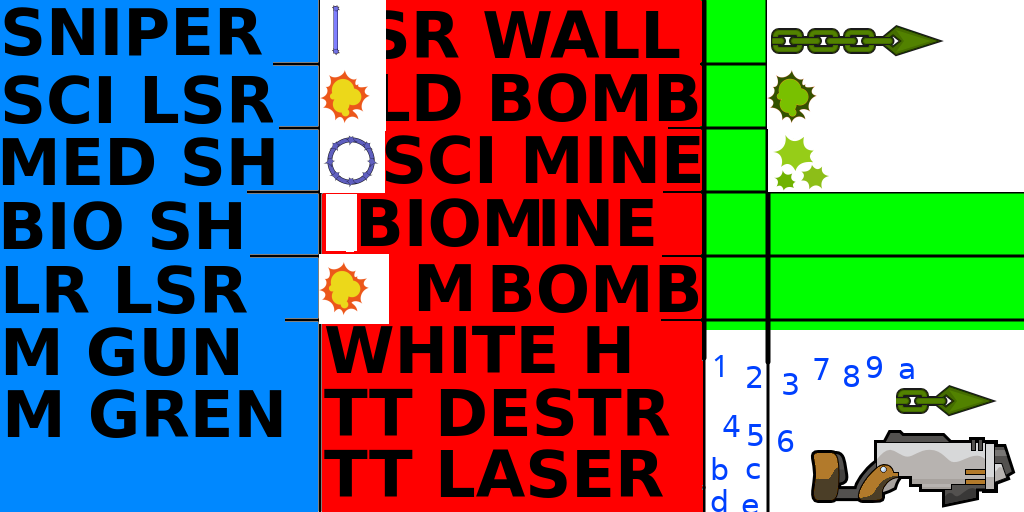
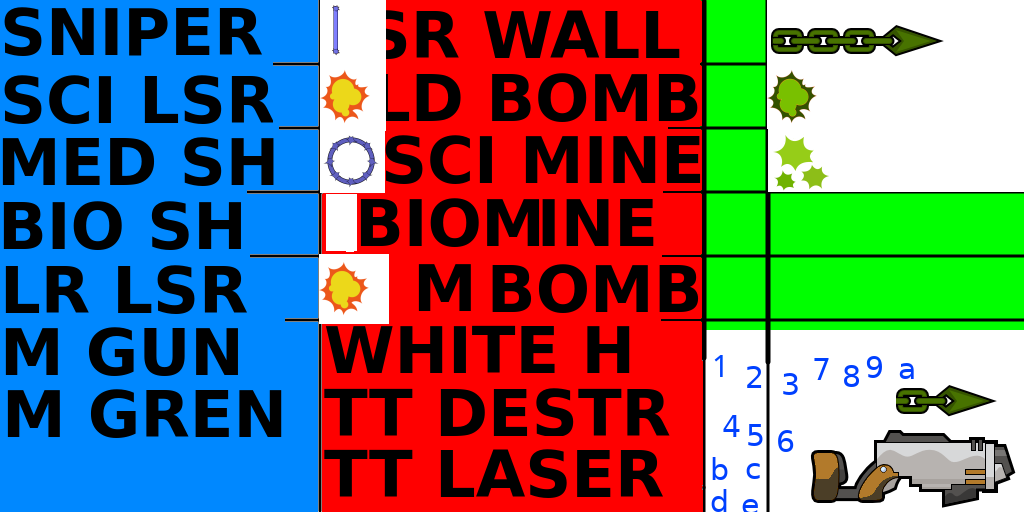
Show infected hook for infected classes

Changed region(s): [[0.75, 0.0312, 0.9375, 0.125], [0.875, 0.75, 0.9688, 0.8125]]

diff --git a/src/game/client/components/players.cpp b/src/game/client/components/players.cpp
@@ -127,7 +127,15 @@ void CPlayers::RenderHook(
 		float d = distance(Pos, HookPos);
 		vec2 Dir = normalize(Pos - HookPos);
 
-		Graphics()->TextureSet(GameClient()->m_GameSkin.m_SpriteHookHead);
+		bool InfectedHook = pRenderInfo->m_InfectedHook;
+		if(InfectedHook)
+		{
+			Graphics()->TextureSet(GameClient()->m_InfclassSkin.m_SpriteHookHead);
+		}
+		else
+		{
+			Graphics()->TextureSet(GameClient()->m_GameSkin.m_SpriteHookHead);
+		}
 		Graphics()->QuadsSetRotation(angle(Dir) + pi);
 		// render head
 		int QuadOffset = NUM_WEAPONS * 2 + 2;
@@ -148,7 +156,14 @@ void CPlayers::RenderHook(
 			s_HookChainRenderInfo[HookChainCount].m_Scale = 1;
 			s_HookChainRenderInfo[HookChainCount].m_Rotation = angle(Dir) + pi;
 		}
-		Graphics()->TextureSet(GameClient()->m_GameSkin.m_SpriteHookChain);
+		if(InfectedHook)
+		{
+			Graphics()->TextureSet(GameClient()->m_InfclassSkin.m_SpriteHookChain);
+		}
+		else
+		{
+			Graphics()->TextureSet(GameClient()->m_GameSkin.m_SpriteHookChain);
+		}
 		Graphics()->RenderQuadContainerAsSpriteMultiple(m_WeaponEmoteQuadContainerIndex, QuadOffset, HookChainCount, s_HookChainRenderInfo);
 
 		Graphics()->QuadsSetRotation(0);
@@ -648,7 +663,9 @@ void CPlayers::OnRender()
 		IsTeamplay = (m_pClient->m_Snap.m_pGameInfoObj->m_GameFlags & GAMEFLAG_TEAMS) != 0;
 	for(int i = 0; i < MAX_CLIENTS; ++i)
 	{
+		const CGameClient::CClientData *pClientData = &m_pClient->m_aClients[i];
 		m_aRenderInfo[i] = m_pClient->m_aClients[i].m_RenderInfo;
+		m_aRenderInfo[i].m_InfectedHook = pClientData->m_InfClassPlayerFlags & INFCLASS_PLAYER_FLAG_INFECTED;
 		if(m_pClient->m_Snap.m_aCharacters[i].m_Cur.m_Weapon == WEAPON_NINJA && g_Config.m_ClShowNinja)
 		{
 			// change the skin for the player to the ninja
@@ -675,6 +692,7 @@ void CPlayers::OnRender()
 	m_RenderInfoSpec.m_ColorableRenderSkin = pSkin->m_ColorableSkin;
 	m_RenderInfoSpec.m_BloodColor = pSkin->m_BloodColor;
 	m_RenderInfoSpec.m_SkinMetrics = pSkin->m_Metrics;
+	m_RenderInfoSpec.m_InfectedHook = false;
 	m_RenderInfoSpec.m_CustomColoredSkin = false;
 	m_RenderInfoSpec.m_Size = 64.0f;
 

diff --git a/src/game/client/gameclient.cpp b/src/game/client/gameclient.cpp
@@ -2007,6 +2007,7 @@ void CGameClient::CClientData::Reset()
 	m_SkinInfo.m_BloodColor = ColorRGBA(1, 1, 1);
 	m_SkinInfo.m_ColorableRenderSkin.Reset();
 	m_SkinInfo.m_OriginalRenderSkin.Reset();
+	m_SkinInfo.m_InfectedHook = false;
 	m_SkinInfo.m_CustomColoredSkin = false;
 	m_SkinInfo.m_ColorBody = ColorRGBA(1, 1, 1);
 	m_SkinInfo.m_ColorFeet = ColorRGBA(1, 1, 1);
@@ -2904,6 +2905,9 @@ void CGameClient::LoadInfclassSkin(const char *pPath, bool AsDir)
 			{
 				Graphics()->UnloadTexture(pHandle);
 			}
+
+			Graphics()->UnloadTexture(&m_InfclassSkin.m_SpriteHookChain);
+			Graphics()->UnloadTexture(&m_InfclassSkin.m_SpriteHookHead);
 		}
 
 		m_InfclassSkinLoaded = false;
@@ -2948,6 +2952,9 @@ void CGameClient::LoadInfclassSkin(const char *pPath, bool AsDir)
 				}
 			}
 		}
+
+		m_InfclassSkin.m_SpriteHookChain = Graphics()->LoadSpriteTexture(ImgInfo, &g_pData->m_aSprites[SPRITE_INF_HOOK_CHAIN]);
+		m_InfclassSkin.m_SpriteHookHead = Graphics()->LoadSpriteTexture(ImgInfo, &g_pData->m_aSprites[SPRITE_INF_HOOK_HEAD]);
 
 		m_InfclassSkinLoaded = true;
 

diff --git a/datasrc/content.py b/datasrc/content.py
@@ -385,6 +385,9 @@ container.sprites.Add(Sprite("inf_game_infection", set_infclass, 48,12,16,4))
 container.sprites.Add(Sprite("hook_chain", set_game, 2,0,1,1))
 container.sprites.Add(Sprite("hook_head", set_game, 3,0,2,1))
 
+container.sprites.Add(Sprite("inf_hook_chain", set_infclass, 56,24,2,2))
+container.sprites.Add(Sprite("inf_hook_head", set_infclass, 58,24,4,2))
+
 container.sprites.Add(Sprite("weapon_ninja_muzzle1", set_game, 25,0,7,4))
 container.sprites.Add(Sprite("weapon_ninja_muzzle2", set_game, 25,4,7,4))
 container.sprites.Add(Sprite("weapon_ninja_muzzle3", set_game, 25,8,7,4))

diff --git a/src/game/client/gameclient.h b/src/game/client/gameclient.h
@@ -647,6 +647,10 @@ public:
 		IGraphics::CTextureHandle m_SpriteDryingHook;
 		IGraphics::CTextureHandle m_SpriteInfectionTile;
 		IGraphics::CTextureHandle m_SpriteGameInfection;
+
+		// weapons and hook
+		IGraphics::CTextureHandle m_SpriteHookChain;
+		IGraphics::CTextureHandle m_SpriteHookHead;
 	};
 
 	SClientInfclassSkin m_InfclassSkin;

diff --git a/src/game/client/render.h b/src/game/client/render.h
@@ -26,6 +26,7 @@ public:
 
 	CSkin::SSkinMetrics m_SkinMetrics;
 
+	bool m_InfectedHook = false;
 	bool m_CustomColoredSkin;
 	ColorRGBA m_BloodColor;
 
